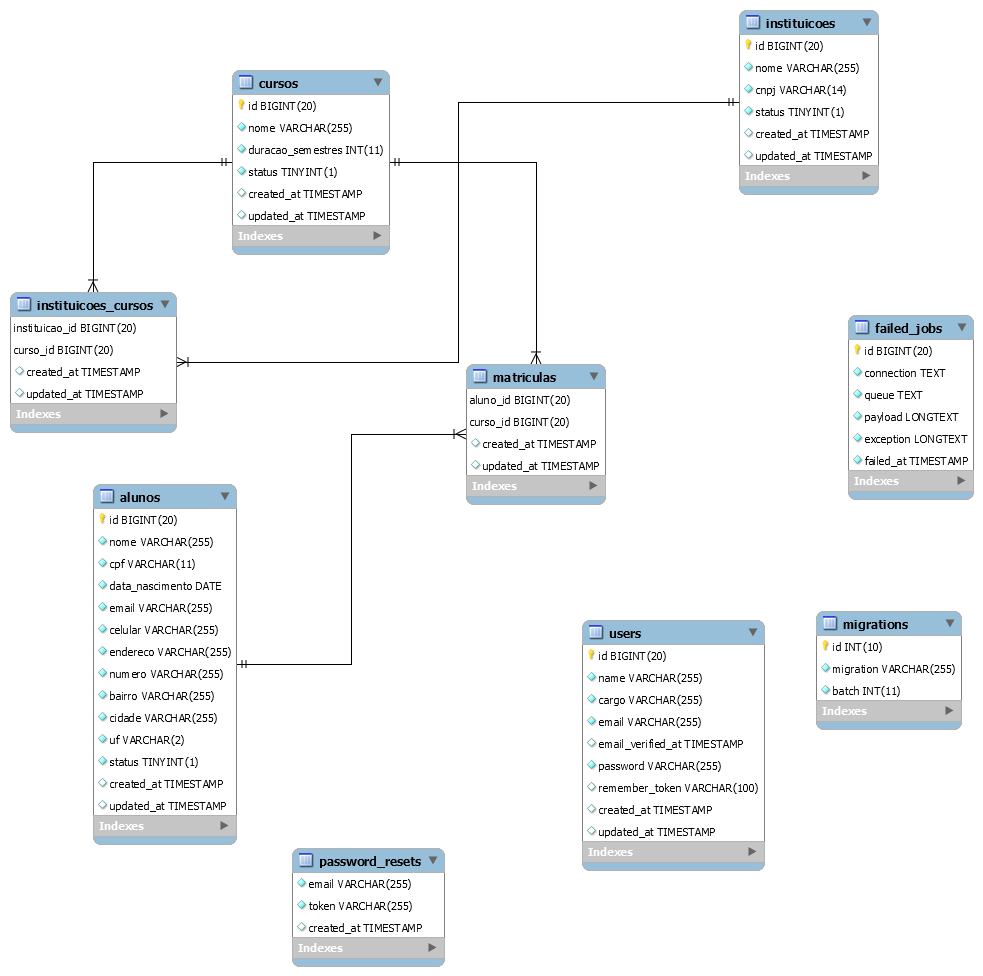
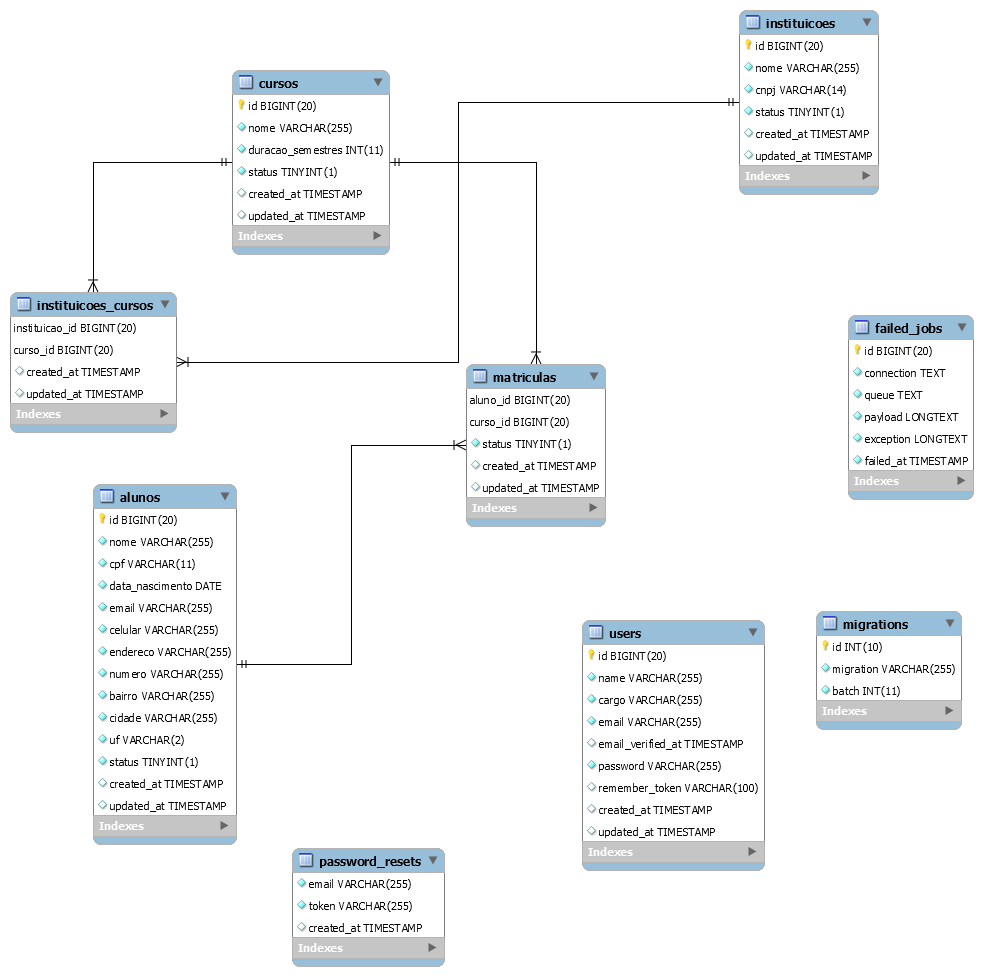
pequena correcao na modelagem

Changed region(s): [[0.4578, 0.4303, 0.6409, 0.5533]]

diff --git a/pravaler/database/migrations/2019_12_15_202305_create_matriculas_table.php b/pravaler/database/migrations/2019_12_15_202305_create_matriculas_table.php
@@ -16,6 +16,7 @@ class CreateMatriculasTable extends Migration
         Schema::create('matriculas', function (Blueprint $table) {
             $table->bigInteger('aluno_id')->unsigned();
             $table->bigInteger('curso_id')->unsigned();
+            $table->boolean('status')->default(true);
 
             $table->timestamps();
 
